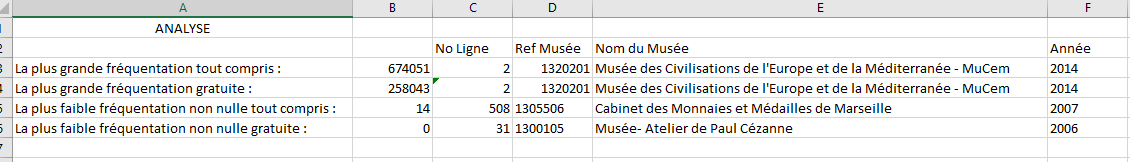
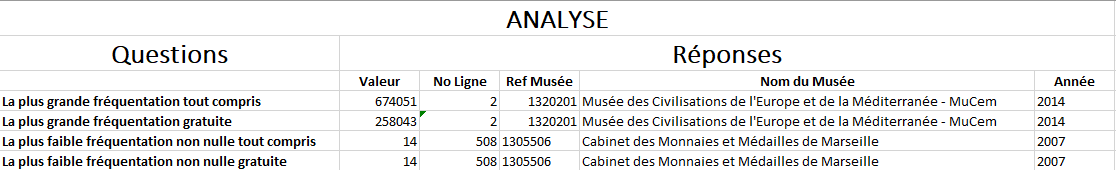
maj POK & MON

diff --git a/Lucie-Le-Boursicaud/mon/temps-1.2/index.md b/Lucie-Le-Boursicaud/mon/temps-1.2/index.md
@@ -181,6 +181,17 @@ La première chose que l'on peut mettre en évidence se sont les cellules vide :
 
 
 #### Etape 2 : Analyse des données 
+J'ai travaillé sur plusieurs thématiques pour répondre aux questions suivantes : 
+| Questions | Intitulé |
+| -------- | -----|
+| Q1 | Quelle est la plus grande fréquentation tout compris, le musée associé et l'année ? |
+| Q2 | Quelle est la plus grande fréquentation gratuite, le musée associe et l'annnée ? |
+| Q3 | Quelle est la plus faible fréquentation non nulle tout compris, le musée associé et l'année ? |
+| Q4 | Quelle est la plus faible fréquentation non nulle gratuite, le musée associé et l'année ? |
+| Q5 | Quel est le pourcentage de la fréquentation totale attribuable aux visiteurs payants pour chaque musée ? |
+| Q6 | Quels musées ont eu une fréquentation gratuite supérieure à leur fréquentation payante en 2016 ? |
+| Q7 | Quels musées ont enregistré une baisse de la fréquentation totale de l'année 2015 à 2016 ? |
+
 On va utiliser les formules vues plus tôt afin d'analyser nos données.
 La première chose que je trouve intéressante est de chercher l'enregistrement possédant la plus grande fréquentation toutes années comprises. Pour celà je savais déterminer le maximum mais comment récupérer l'ID du musée correspondant ainsi que son nom et l'année de l'enregistrement ? Je me suis donc renseigné pour trouver la formule <strong>=RECHERCHERV</strong>. Seulement cette formule ne fonctionne que si la valeur rechercher se trouve dans la première colonne ce qui n'est pas le cas ici. J'ai donc du utilisé deux formules pour séquencer mon travail : 
 + Trouver la ligne correspondante à la valeur cherchée
@@ -188,16 +199,26 @@ La première chose que je trouve intéressante est de chercher l'enregistrement 
 + Trouver les informations d'une ligne 
   J'utilise alors la formule <strong>=INDEX</strong>
 
-J'ai travaillé sur plusieurs thématiques pour répondre aux questions suivantes : 
-| Questions |
-| -------- |
-| Quelle est la plus grande fréquentation tout compris, le musée associé et l'année ? |
-| Quelle est la plus grande fréquentation gratuite, le musée associe et l'annnée ? |
-| Quelle est la plus faible fréquentation non nulle tout compris, le musée associé et l'année ? |
-| Quelle est la plus faible fréquentation non nulle gratuite, le musée associé et l'année ? |
-
-On obtient alors ce type de données : 
+On obtient alors ce type de données pour les premières réponses : 
 <div stype="display:flex"><img src="analyse.png"></div>
+
+Pour les quatres questions j'ai utilisé des feuilles de calculs à part car il s'agit de renvoyer plusieurs lignes et non pas une seule. 
+
+##### Q5 : Quel est le pourcentage de la fréquentation totale attribuable aux visiteurs payants pour chaque musée ?
+
+<div stype="display:flex"><img src="qpourcentage.png"></div>
+<div stype="display:flex"><img src="qpourcentagevisu.png"></div>
+
+##### Q6 : Quels musées ont eu une fréquentation gratuite supérieure à leur fréquentation payante en 2006 ?
+
+<div stype="display:flex"><img src="qgplusquep.png"></div>
+
+On peut visualiser l'évolution de cette variable au fil des années : 
+<div stype="display:flex"><img src="qgplusquepvisu.png"></div>
+
+##### Q7 : Quels musées ont enregistré une baisse de la fréquentation totale de l'année 2015 à 2016 ?
+
+<div stype="display:flex"><img src="qbaisse.png"></div>
 
 Je me suis demandé si on pouvait trouver les musées gratuits de la région en filtrant la colonne *PAYANT* sur la valeur 0. Et voici ce que j'ai obtenu : 
 <div stype="display:flex"><img src="museegratuit.png"></div>
